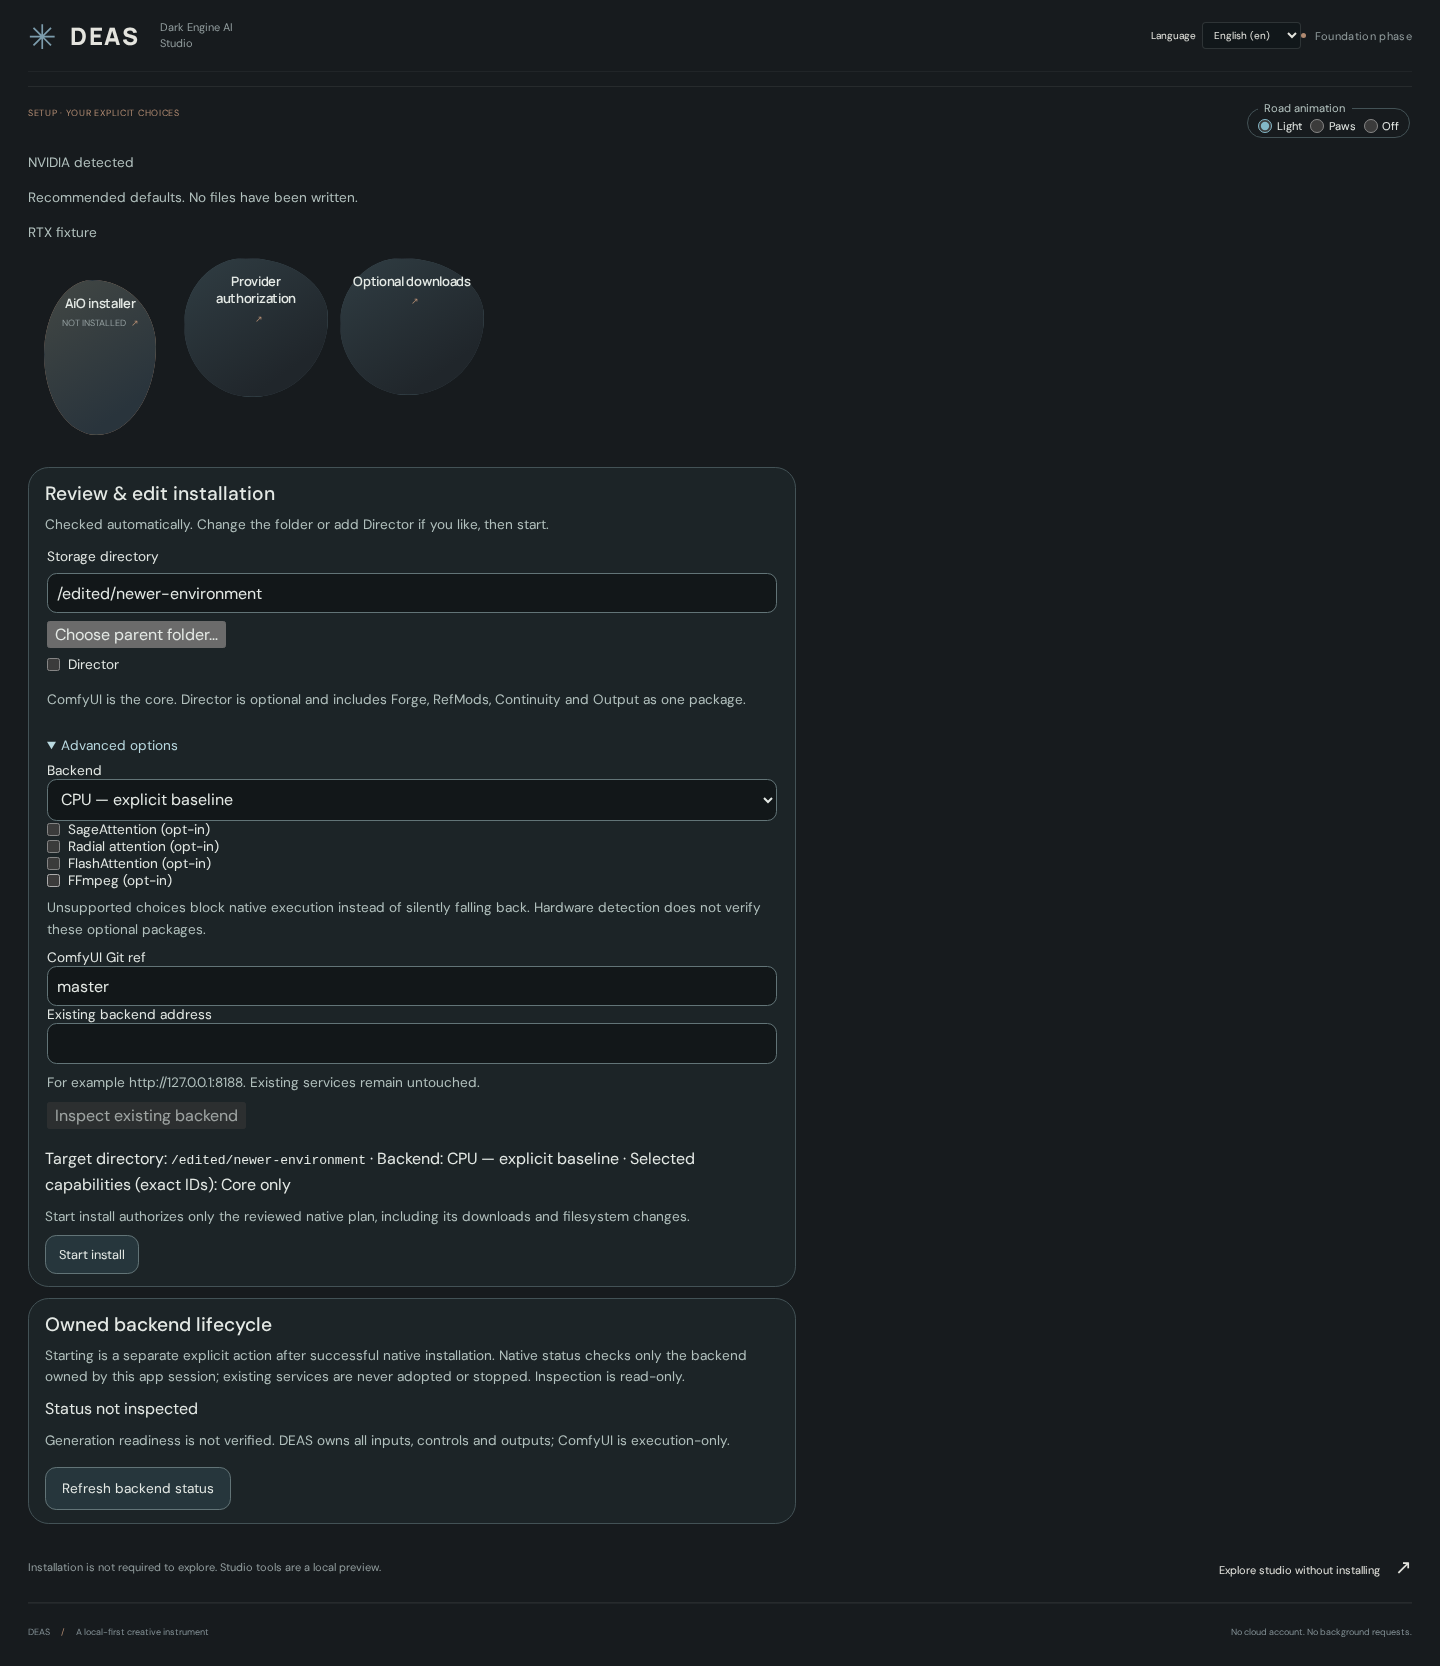
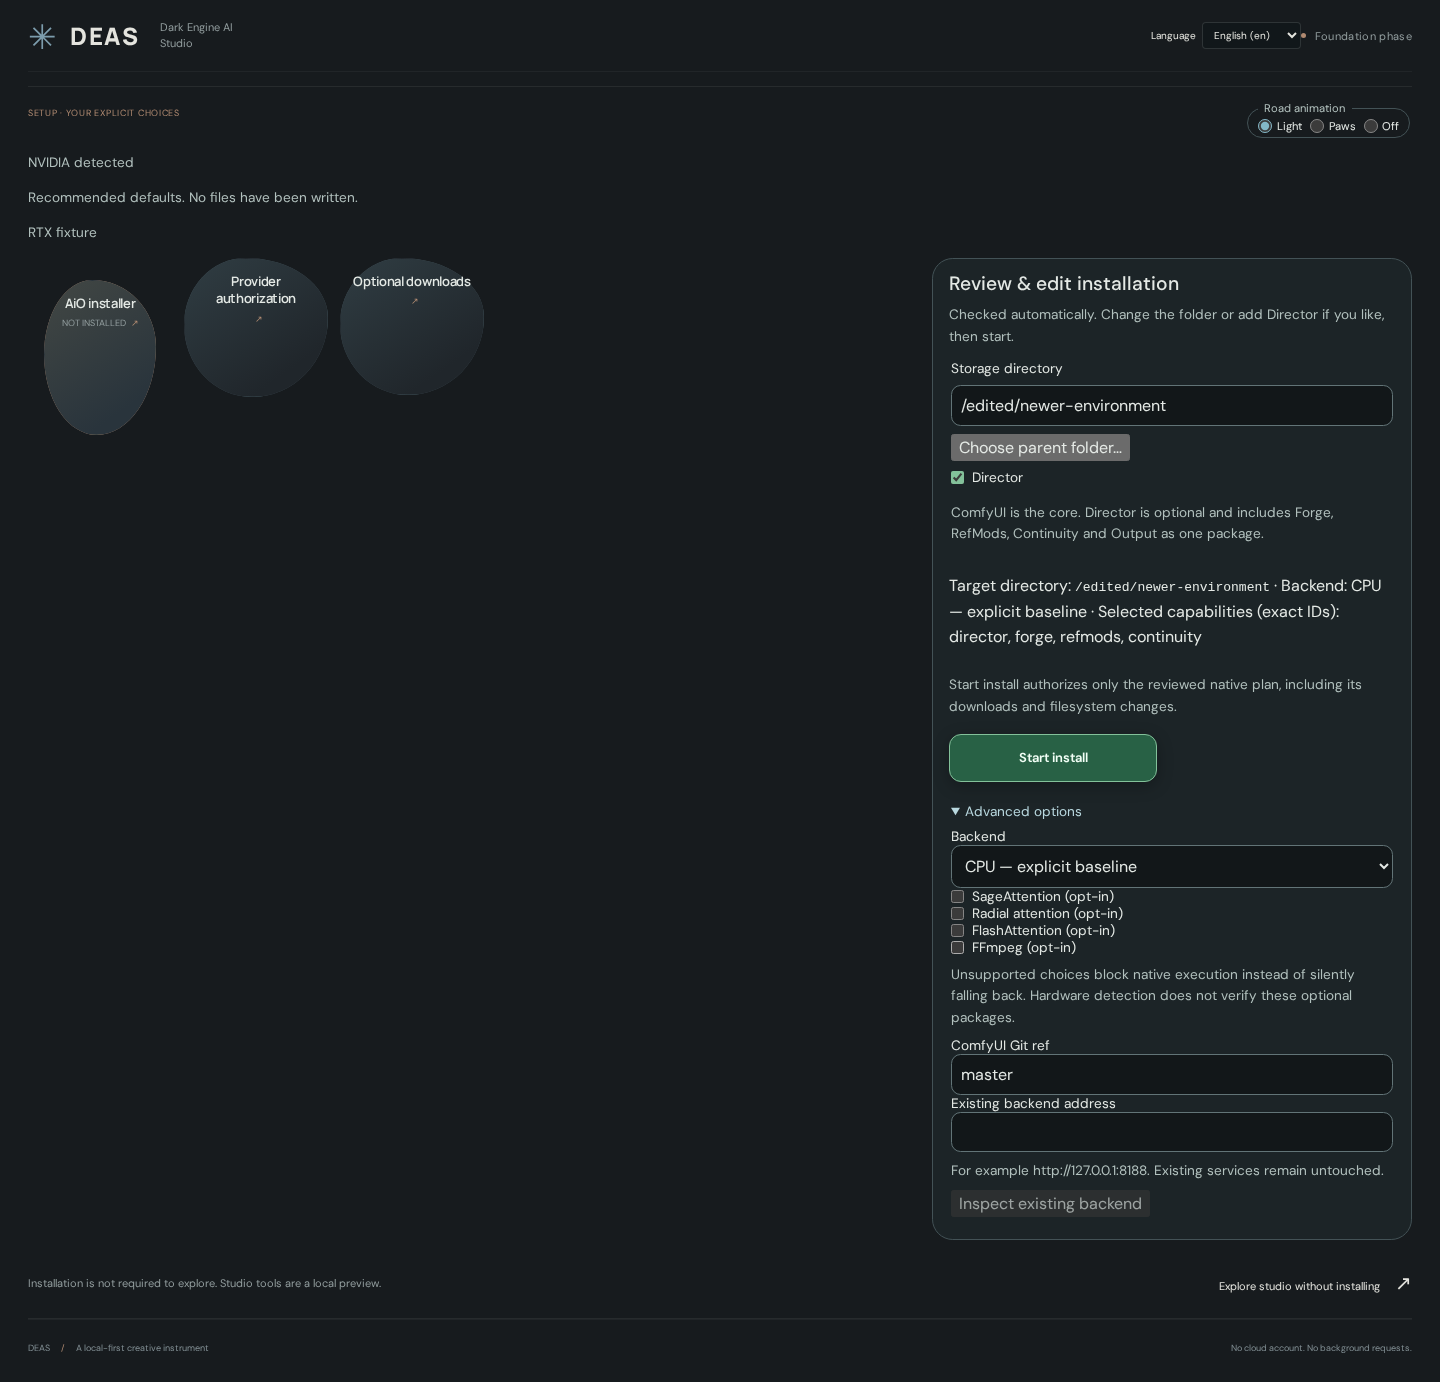
feat: one-page setup layout, Director default, prominent Start install, lifecycle only after install

diff --git a/src/components/setup/AiOSetup.tsx b/src/components/setup/AiOSetup.tsx
@@ -121,15 +121,29 @@ export function AiOSetup({ onConnectExisting, onInstalled }: AiOSetupProps) {
   {state.opened&&defaults&&!status&&<div className="aio-help" role="status"><p>{t(defaults.backend==='nvidia'?'setup.detectedNvidia':'setup.cpuRecommendation')}</p><p>{t('setup.autoFindings')}</p>{typeof defaults.hardware?.name==='string'&&<p>{String(defaults.hardware.name)}</p>}{defaults.warnings.length>0&&<ul>{defaults.warnings.map((w,i)=><li key={i}>{w}</li>)}</ul>}</div>}
   {detectionError&&<p className="aio-error" role="alert">{t('setup.detectionError')}: {detectionError}</p>}
   <div className="aio-decision-area">
+  <div className="aio-left">
   <div className="aio-bubble-row">
    <NeuralGraph nodes={presentation.nodes} history={presentation.history} motion={state.motion} onSelect={id=>{if(id==='setup:aio'&&!running&&!busy&&!pickerLock.current)setState(s=>transitionSetup(s,{type:'automatic'}));}} label={t('setup.decisions')}/>
    <DownloadWorkspace installTarget={plan?.route==='managed'?plan.storagePath:undefined}/>
   </div>
+  {error&&<p className="aio-error" role="alert">{t(error)}</p>}{technicalError&&<p className="aio-error" role="alert">{t('setup.technicalError')}: {technicalError}</p>}
+  </div>
+  <aside className="aio-right">
   {state.opened&&<section className="aio-detail aio-auto-review" aria-label={t('setup.autoReview')}><h3>{t('setup.autoReview')}</h3><p className="aio-help">{t(native?'setup.autoHelp':'setup.autoBrowser')}</p>
    <fieldset className="aio-auto-fields" disabled={running||busy||pickerBusy}>
     <label htmlFor="auto-storage">{t('setup.storageDirectory')}</label><input id="auto-storage" value={state.values.storage??''} onChange={e=>{setStorageParent('');setError('');edit({type:'select',step:'storage',value:e.target.value},'storage');}}/>
     <button type="button" disabled={!native} onClick={()=>void pickDirectory()}>{t('setup.pickParent')}</button>{storageParent&&<p className="aio-help">{t('setup.selectedParent')}: <code>{storageParent}</code></p>}
     <label><input type="checkbox" checked={state.features.includes('director')} onChange={()=>edit({type:'feature',id:'director'},'features')}/>{t('setup.feature.director.label')}</label><p className="aio-help">{t('setup.capabilityHelp')}</p>
+   </fieldset>
+   {nativePlan&&<div className="aio-start">
+    <p>{t('setup.request.storagePath')}: <code>{nativePlan.request.storagePath}</code> · {t('setup.request.backend')}: {t(`setup.backend.${nativePlan.request.backend}.label`)}{typeof nativePlan.hardware?.name==='string'&&` · ${nativePlan.hardware.name}`} · {t('setup.request.features')}: {nativePlan.request.features.join(', ')||t('setup.summary.core')}</p>
+    {nativePlan.warnings.length>0&&<ul className="aio-help">{nativePlan.warnings.map((w,i)=><li key={i}>{w}</li>)}</ul>}
+    {nativePlan.unsupportedOptions.length>0&&<><h4>{t('setup.unsupported')}</h4><ul>{nativePlan.unsupportedOptions.map(o=><li key={o}>{o}</li>)}</ul></>}
+    {!nativePlan.canExecute&&<p role="alert">{t('setup.blocked')}</p>}
+    <p className="aio-help">{t('setup.autoConsent')}</p>
+    <button className="aio-confirm-button" disabled={!planMatches||running||busy||status?.state==='succeeded'||!nativePlan.canExecute||nativePlan.unsupportedOptions.length>0} onClick={()=>void start()}>{t('setup.autoStart')}</button>
+   </div>}
+   <fieldset className="aio-auto-fields" disabled={running||busy||pickerBusy}>
     <details className="aio-advanced"><summary>{t('setup.advanced')}</summary>
      <label htmlFor="auto-backend">{t('setup.request.backend')}</label><select id="auto-backend" value={state.values.acceleration??''} onChange={e=>edit({type:'select',step:'acceleration',value:e.target.value},'acceleration')}><option value="">{t('setup.manualBackend')}</option>{['cpu','nvidia','amd','intel'].map(id=><option key={id} value={id}>{t(`setup.backend.${id}.label`)}</option>)}</select>
      {(Object.keys(state.options) as (keyof InstallOptions)[]).map(id=><label key={id}><input type="checkbox" checked={state.options[id]} onChange={e=>edit({type:'option',id,enabled:e.target.checked},'options')}/>{t(`setup.option.${id}`)}</label>)}
@@ -139,19 +153,11 @@ export function AiOSetup({ onConnectExisting, onInstalled }: AiOSetupProps) {
      <button type="button" disabled={!existingUrl.trim()} onClick={()=>{if(validateBackend(existingUrl.trim()))onConnectExisting(existingUrl.trim());else setError('setup.error.backend');}}>{t('setup.inspect')}</button>
     </details>
    </fieldset>{busy&&<p className="aio-help" role="status">{t('setup.busy')}</p>}
-   {nativePlan&&<>
-    <p>{t('setup.request.storagePath')}: <code>{nativePlan.request.storagePath}</code> · {t('setup.request.backend')}: {t(`setup.backend.${nativePlan.request.backend}.label`)}{typeof nativePlan.hardware?.name==='string'&&` · ${nativePlan.hardware.name}`} · {t('setup.request.features')}: {nativePlan.request.features.join(', ')||t('setup.summary.core')}</p>
-    {nativePlan.warnings.length>0&&<ul className="aio-help">{nativePlan.warnings.map((w,i)=><li key={i}>{w}</li>)}</ul>}
-    {nativePlan.unsupportedOptions.length>0&&<><h4>{t('setup.unsupported')}</h4><ul>{nativePlan.unsupportedOptions.map(o=><li key={o}>{o}</li>)}</ul></>}
-    {!nativePlan.canExecute&&<p role="alert">{t('setup.blocked')}</p>}
-    <p className="aio-help">{t('setup.autoConsent')}</p>
-    <button disabled={!planMatches||running||busy||status?.state==='succeeded'||!nativePlan.canExecute||nativePlan.unsupportedOptions.length>0} onClick={()=>void start()}>{t('setup.autoStart')}</button>
-   </>}
   </section>}
-  </div>
   {status&&<section className="aio-detail" aria-label={t('setup.installStatus')}><h3>{t('setup.installStatus')}</h3><p role="status">{t(`setup.execution.${status.state}`)}{status.stepId&&` · ${status.stepId}`}</p>{status.state==='succeeded'&&<p>{t('setup.installedNotReady')}</p>}<details><summary>{t('setup.logs')}</summary><pre aria-label={t('setup.logs')}>{status.logs.join('\n')}</pre></details>{status.error&&<p role="alert">{t('setup.technicalError')}: {status.error}</p>}{running&&<button disabled={busy} onClick={()=>void cancel()}>{t('setup.cancel')}</button>}</section>}
-  {(native||plan)&&<OwnedBackendPanel installSucceeded={status?.state==='succeeded'} onConnectExisting={onConnectExisting}/>}
-  {error&&<p className="aio-error" role="alert">{t(error)}</p>}{technicalError&&<p className="aio-error" role="alert">{t('setup.technicalError')}: {technicalError}</p>}
+  {status?.state==='succeeded'&&<OwnedBackendPanel installSucceeded onConnectExisting={onConnectExisting}/>}
+  </aside>
+  </div>
  </section>;
 }
 export default AiOSetup;

diff --git a/src/components/setup/AiOSetup.test.tsx b/src/components/setup/AiOSetup.test.tsx
@@ -12,7 +12,7 @@ const click=(name:string)=>fireEvent.click(screen.getByRole('button',{name}));
 const mount=(connect=vi.fn(),installed=vi.fn())=>render(<I18nProvider><AiOSetup onConnectExisting={connect} onInstalled={installed}/></I18nProvider>);
 const open=()=>click('AiO installer');
 const change=(label:string,value:string)=>fireEvent.change(screen.getByLabelText(label),{target:{value}});
-const request:NativeInstallRequest={storagePath:'/app/deas-environment',backend:'cpu',features:[],options:{sage:false,radial:false,flash:false,ffmpeg:false},comfyRef:'master'};
+const request:NativeInstallRequest={storagePath:'/app/deas-environment',backend:'cpu',features:['director','forge','refmods','continuity'],options:{sage:false,radial:false,flash:false,ffmpeg:false},comfyRef:'master'};
 const defaults={storagePath:request.storagePath,backend:'cpu',hardware:null,warnings:['CPU fallback fixture']};
 const plan=(r=request)=>({id:'fixture-plan',request:r,steps:[],warnings:[],unsupportedOptions:[],canExecute:true});
 function nativeFixture(){
@@ -34,7 +34,7 @@ describe('automatic-first installation — read-only mock IPC fixtures',()=>{
    if(command==='native_install_plan'){prepared=plan((args as {request:NativeInstallRequest}).request);return prepared;}
    return {state:'succeeded',stepId:null,logs:['installed fixture'],error:null};
   });
-  const view=mount(vi.fn(),installed);open();fireEvent.click(screen.getByLabelText('Director'));await screen.findByText('CPU fallback fixture');
+  const view=mount(vi.fn(),installed);open();await screen.findByText('CPU fallback fixture');
   await screen.findByRole('button',{name:'Start install'});expect(installed).not.toHaveBeenCalled();
   click('Start install');await waitFor(()=>expect(installed).toHaveBeenCalledTimes(1));
   expect(installed.mock.calls[0][0]).toBe(prepared.request.features);
@@ -60,7 +60,7 @@ describe('automatic-first installation — read-only mock IPC fixtures',()=>{
   });
   mount(vi.fn(),installed);open();await screen.findByText('CPU fallback fixture');await screen.findByRole('button',{name:'Start install'});click('Start install');await screen.findByText('running install');
   expect(installed).not.toHaveBeenCalled();await act(async()=>completion.resolve({state:'succeeded',stepId:null,logs:[],error:null}));
-  expect(installed).toHaveBeenCalledExactlyOnceWith([]);
+  expect(installed).toHaveBeenCalledExactlyOnceWith(['director','forge','refmods','continuity']);
  });
  it('does not replay a previous success for an edited or newly prepared plan',async()=>{
   nativeFixture();const installed=vi.fn();let id=0;
@@ -68,13 +68,14 @@ describe('automatic-first installation — read-only mock IPC fixtures',()=>{
   mount(vi.fn(),installed);open();await screen.findByText('CPU fallback fixture');await screen.findByRole('button',{name:'Start install'});click('Start install');await waitFor(()=>expect(installed).toHaveBeenCalledTimes(1));
   fireEvent.click(screen.getByLabelText('Director'));expect(installed).toHaveBeenCalledTimes(1);
   await screen.findByRole('button',{name:'Start install'});expect(installed).toHaveBeenCalledTimes(1);
-  click('Start install');await waitFor(()=>expect(installed).toHaveBeenCalledTimes(2));expect(installed.mock.calls[1][0]).toEqual(['director','forge','refmods','continuity']);
+  click('Start install');await waitFor(()=>expect(installed).toHaveBeenCalledTimes(2));expect(installed.mock.calls[1][0]).toEqual([]);
  });
  it('opens every editable field without inventing a browser path or hardware',()=>{
   mount();open();expect((screen.getByLabelText('Storage directory') as HTMLInputElement).value).toBe('');
   expect((screen.getByLabelText('Backend') as HTMLSelectElement).value).toBe('');
   expect(screen.getByLabelText('ComfyUI Git ref')).toBeTruthy();
-  for(const label of ['Director','SageAttention (opt-in)','Radial attention (opt-in)','FlashAttention (opt-in)','FFmpeg (opt-in)'])expect((screen.getByLabelText(label) as HTMLInputElement).checked).toBe(false);
+  expect((screen.getByLabelText('Director') as HTMLInputElement).checked).toBe(true);
+  for(const label of ['SageAttention (opt-in)','Radial attention (opt-in)','FlashAttention (opt-in)','FFmpeg (opt-in)'])expect((screen.getByLabelText(label) as HTMLInputElement).checked).toBe(false);
   expect(screen.queryByRole('button',{name:'Confirm & continue'})).toBeNull();expect(invoke).not.toHaveBeenCalled();expect(screen.queryByRole('button',{name:'Start install'})).toBeNull();
  });
  it('reads defaults only on open; automatic planning never starts installation; final click confirms once',async()=>{
@@ -92,7 +93,7 @@ describe('automatic-first installation — read-only mock IPC fixtures',()=>{
   for(const label of ['SageAttention (opt-in)','Radial attention (opt-in)','FlashAttention (opt-in)','FFmpeg (opt-in)'])fireEvent.click(screen.getByLabelText(label));
   change('ComfyUI Git ref','v0.3.50');change('Storage directory','/other/new');change('Backend','nvidia');
   await screen.findByRole('button',{name:'Start install'});
-  expect(invoke).toHaveBeenLastCalledWith('native_install_plan',{request:{storagePath:'/other/new',backend:'nvidia',features:['director','forge','refmods','continuity'],options:{sage:true,radial:true,flash:true,ffmpeg:true},comfyRef:'v0.3.50'}});
+  expect(invoke).toHaveBeenLastCalledWith('native_install_plan',{request:{storagePath:'/other/new',backend:'nvidia',features:[],options:{sage:true,radial:true,flash:true,ffmpeg:true},comfyRef:'v0.3.50'}});
  });
  it('invalid text is visible, disables review, and invalidates the previous plan',async()=>{
   nativeFixture();await ready();change('Storage directory','relative');expect(screen.queryByRole('button',{name:'Start install'})).toBeNull();

diff --git a/src/components/setup/setup.css b/src/components/setup/setup.css
@@ -7,7 +7,7 @@
 .aio-auto-fields input[type="checkbox"] { accent-color: #83c19a; flex: none; width: auto; padding: 0; margin: 0; }
 .aio-setup { color: #e4e9e5; min-width: 0; }
 /* Graph, step controls and the shared footer form one content-sized workspace. */
-.aio-decision-area { width: 100%; max-width: 48rem; min-width: 0; }
+.aio-decision-area { width: 100%; min-width: 0; }
 .aio-decision-area > .aio-detail { box-sizing: border-box; width: 100%; }
 .aio-confirm-rail { display: flex; justify-content: flex-end; margin-top: .75rem; }
 .aio-setup .aio-confirm-button { width: 208px; max-width: 100%; min-height: 48px; padding: 12px 16px; border: 1px solid #83c19a; border-radius: 12px; background: #286145; color: #f2fff6; font-size: 13px; font-weight: 600; box-shadow: 0 4px 16px #0004; }
@@ -74,3 +74,12 @@
 .aio-bubble-row [data-node="provider-auth"] { grid-row: 1; grid-column: 2; }
 .aio-bubble-row [data-node="optional-downloads"] { grid-row: 1; grid-column: 3; }
 .aio-bubble-row .download-controls { grid-column: 1 / -1; }
+.aio-start { display: grid; gap: .5rem; justify-items: start; margin: .75rem 0; }
+.aio-start .aio-confirm-button { width: auto; min-width: 208px; }
+/* One page: bubbles and their panels on the left, the installation review pinned on the right. */
+.aio-decision-area { display: grid; grid-template-columns: minmax(0, 1fr) minmax(0, 30rem); gap: 1.5rem; align-items: start; }
+.aio-left, .aio-right { min-width: 0; }
+.aio-right { position: sticky; top: .75rem; }
+.aio-right > .aio-detail { margin-top: 0; max-width: none; }
+.aio-right > .aio-detail + .aio-detail { margin-top: .65rem; }
+@media (max-width: 900px) { .aio-decision-area { grid-template-columns: minmax(0, 1fr); } .aio-right { position: static; } }

diff --git a/src/components/setup/OwnedBackendPanel.test.tsx b/src/components/setup/OwnedBackendPanel.test.tsx
@@ -115,7 +115,7 @@ describe('owned backend lifecycle — mock IPC fixtures, not real ComfyUI/GPU ve
 async function installFixture(result:'succeeded'|'failed') {
  vi.mocked(invoke).mockImplementation(async command=>{
   if(command==='native_install_defaults')return {storagePath:'/data/mock-DEAS',backend:'cpu',hardware:null,warnings:[]};
-  if(command==='native_install_plan')return {id:'mock-plan',request:{storagePath:'/data/mock-DEAS',backend:'cpu',features:[],options:{sage:false,radial:false,flash:false,ffmpeg:false},comfyRef:'master'},steps:[],warnings:[],unsupportedOptions:[],canExecute:true};
+  if(command==='native_install_plan')return {id:'mock-plan',request:{storagePath:'/data/mock-DEAS',backend:'cpu',features:['director','forge','refmods','continuity'],options:{sage:false,radial:false,flash:false,ffmpeg:false},comfyRef:'master'},steps:[],warnings:[],unsupportedOptions:[],canExecute:true};
   if(command==='native_install_start')return {state:result,stepId:null,logs:['mock install fixture'],error:result==='failed'?'fixture install failed':null};
   return fixture('stopped');
  });

diff --git a/src/lib/setup.ts b/src/lib/setup.ts
@@ -60,7 +60,7 @@ function invalidateStep(state: SetupState, step: StepId): SetupState {
  return {...state,values,confirmed};
 }
 export function transitionSetup(state: SetupState,event: SetupEvent): SetupState {
- if(event.type==='automatic') return {...state,mode:'automatic',opened:true,values:{...state.values,route:'managed',pack:'complete'}};
+ if(event.type==='automatic') return {...state,mode:'automatic',opened:true,values:{...state.values,route:'managed',pack:'complete'},features:state.features.length?state.features:['director']}; // Director is the recommended package; untick to install core only
  if(event.type==='open') return {...state,opened:true};
  if(state.mode==='automatic') {
   if(event.type==='select'&&event.step==='storage') return {...state,values:{...state.values,storage:event.value}};

diff --git a/tests/setup.test.ts b/tests/setup.test.ts
@@ -10,7 +10,8 @@ function through(last:StepId='acceleration') {
 }
 test('automatic review keeps all fields editable without per-step confirmation',()=>{
  let s=transitionSetup(initialSetupState(),{type:'automatic'});
- assert.equal(activeSetupStep(s),'review');assert.equal(setupPlan(s),null);
+ assert.equal(activeSetupStep(s),'review');assert.equal(setupPlan(s),null);assert.deepEqual(s.features,['director']);
+ s=transitionSetup(s,{type:'feature',id:'director'});assert.deepEqual(s.features,[]);
  s=select(s,'storage','/data/new');s=select(s,'acceleration','cpu');
  assert.ok(setupPlan(s));
  s=transitionSetup(s,{type:'option',id:'ffmpeg',enabled:true});

diff --git a/src/App.test.tsx b/src/App.test.tsx
@@ -74,7 +74,7 @@ test.each([false,true])("successful native install reveals studio without an ext
   localStorage.setItem(LOCALE_STORAGE_KEY, "en");
   render(<I18nProvider><App /></I18nProvider>);
   fireEvent.click(screen.getByRole('button',{name:'AiO installer'}));
-  if(director)fireEvent.click(screen.getByLabelText('Director'));
+  if(!director)fireEvent.click(screen.getByLabelText('Director'));
   await waitFor(()=>expect(screen.getByLabelText('Storage directory')).toHaveProperty('value','/app/new'));
   const start=await screen.findByRole('button',{name:'Start install'});
   expect(screen.queryByRole('tablist',{name:'Studio areas'})).toBeNull();
